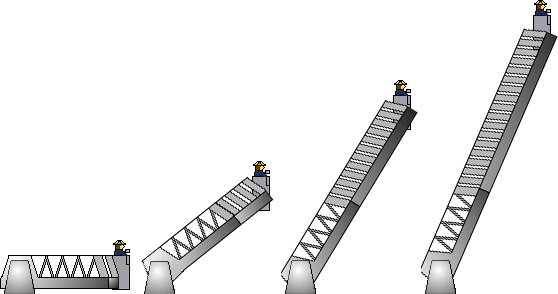
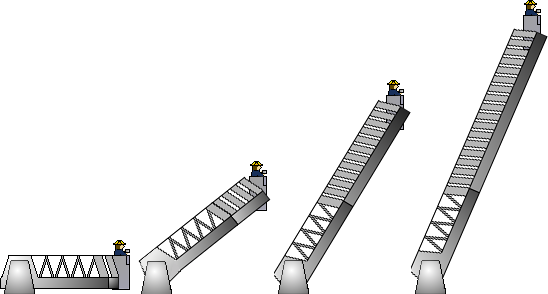
Drawing crane.

diff --git a/js/html5-invasion.camara2d.js b/js/html5-invasion.camara2d.js
@@ -63,9 +63,13 @@ function Camera2D(images, elements) {
 		count: 0
 	}
 
-	// Frames to draw truck.
+	// Frames to draw truck and crane.
 	this.elements['truck'].frame = 0;
 	this.elements['truck'].count = 0;
+	this.elements['crane'] = {
+		frame: 0,
+		count: 0
+	};
 
 
 // METHODS.    --------//
@@ -146,8 +150,12 @@ function Camera2D(images, elements) {
 			var x = elements['truck'].x;
 			var y = 363;
 			this.contextBufferScreen.drawImage( images['truck'],
-				elements['truck'].frame, 0, 131, 78,
+				this.elements['truck'].frame, 0, 131, 78,
 				x, y, 131, 78
+			);
+			this.contextBufferScreen.drawImage( images['crane'],
+				this.elements['crane'].frame, 0, 137, 294,
+				x, y-294, 137, 294
 			);
 
 

diff --git a/js/html5-invasion.main.js b/js/html5-invasion.main.js
@@ -33,6 +33,8 @@
 	images_container['fire'].src = 'img/fire.png';
 	images_container['truck'] = new Image();
 	images_container['truck'].src = 'img/truck.png';
+	images_container['crane'] = new Image();
+	images_container['crane'].src = 'img/crane.png';
 
 	// Elements container.
 	var elements_container = new Object();
@@ -43,11 +45,6 @@
 	};
 	elements_container['cloud_b'] = {
 		x: 400
-	};
-
-	// Truck.
-	elements_container['truck'] = {
-		x: 0
 	};
 
 	// Buildings.
@@ -83,6 +80,11 @@
 			]
 		},
 	];
+
+	// Truck.
+	elements_container['truck'] = {
+		x: 0
+	};
 
 	// Reference to camera2d object.
 	var camera2d = null;
